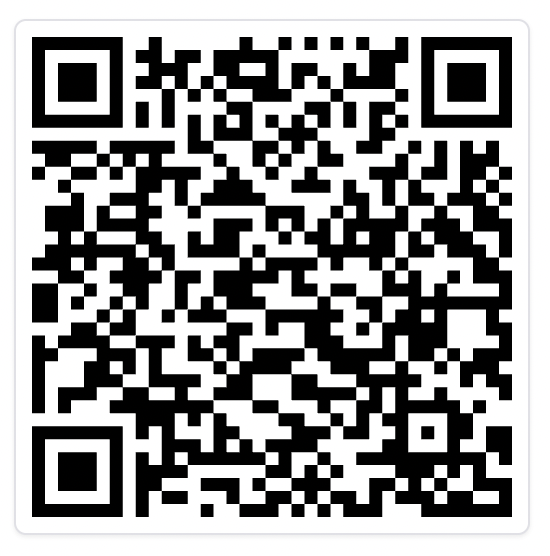
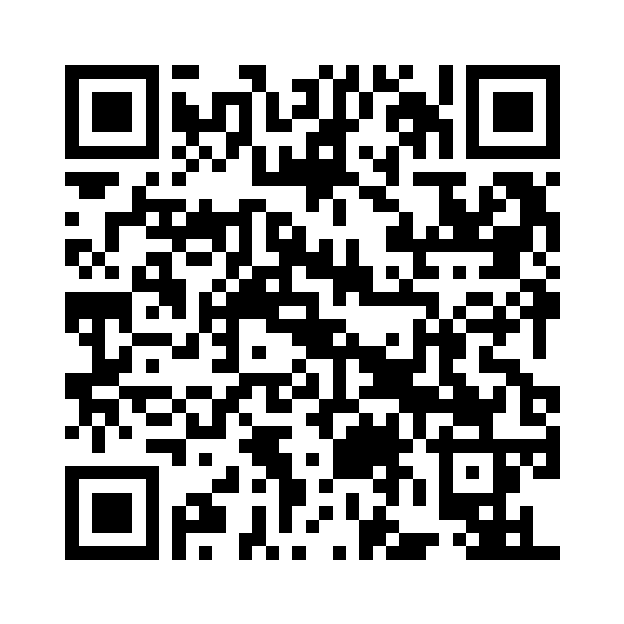
Header links on desktop without the menu button; new app download QR
- Header: the links show whenever they fit (measured), the menu button only
  when they do not; a fixed 62rem threshold hid them on ordinary desktops
- Get the app: QR code and link for the new Android build (b6bff365)

diff --git a/components/shatably/Header.tsx b/components/shatably/Header.tsx
@@ -2,7 +2,7 @@
 
 import { CARPETS_ENABLED, WINDOWS_ENABLED } from "@/lib/features";
 import { setLocale, useLocale, useT } from "@/lib/i18n";
-import { useEffect, useState, type ReactNode } from "react";
+import { useEffect, useLayoutEffect, useRef, useState, type ReactNode } from "react";
 import Link from "next/link";
 import { usePathname, useRouter } from "next/navigation";
 import { Check, ChevronDown, LayoutGrid, LogOut, Menu, PackageCheck, PencilRuler, Plus, Settings, Shapes, Shield, ShoppingBag } from "lucide-react";
@@ -62,6 +62,24 @@ export function Header({ vendor, actions }: { vendor?: VendorProfile | null; act
   // Requests are a signed-in feature: guests do not see the link (the page itself asks them to log in).
   const nav = vendor ? STUDIO_NAV : CATALOG_NAV.filter((item) => user || item.href !== "/tasks");
   const current = activeHref(pathname, nav);
+  // The links show whenever they fit beside the brand and the account controls (measured, so a desktop never gets the
+  // menu button for links that would fit); the menu button only when they do not. With page actions (the plan
+  // editor) the links share the bar with them, so they stay in the menu until 2xl as before.
+  const navRef = useRef<HTMLElement>(null);
+  const linksRef = useRef<HTMLUListElement>(null);
+  const [fits, setFits] = useState(true);
+  useLayoutEffect(() => {
+    const bar = navRef.current;
+    const links = linksRef.current;
+    if (!bar || !links || actions) return;
+    const check = () => setFits(links.scrollWidth <= bar.clientWidth);
+    check();
+    const observer = new ResizeObserver(check);
+    observer.observe(bar);
+    observer.observe(links);
+    return () => observer.disconnect();
+  }, [actions, nav.length]);
+  const showLinks = actions ? "hidden 2xl:flex" : fits ? "flex" : "pointer-events-none invisible absolute flex";
   const [admin, setAdmin] = useState(false);
   useEffect(() => {
     void getUser().then(setUser);
@@ -98,9 +116,10 @@ export function Header({ vendor, actions }: { vendor?: VendorProfile | null; act
 
         {/* The links show only when the space left by the brand and the account controls fits them all (a container
             query on this nav, so a longer studio nav or a wider account area never overlaps); otherwise the menu. */}
-        <nav className="@container flex h-full min-w-9 flex-1 items-center gap-4 xl:gap-6" aria-label={t("Main")}>
-          <MobileNav nav={nav} current={current} signedIn={Boolean(vendor)} admin={admin} wideOnly={Boolean(actions)} onGetApp={() => setGetApp(true)} />
-          <ul className={`hidden h-full shrink-0 items-center gap-1 ${actions ? "2xl:flex" : "@[62rem]:flex"}`}>
+        <nav ref={navRef} className="relative flex h-full min-w-9 flex-1 items-center gap-4 xl:gap-6" aria-label={t("Main")}>
+          {(actions || !fits) && <MobileNav nav={nav} current={current} signedIn={Boolean(vendor)} admin={admin} wideOnly={Boolean(actions)} onGetApp={() => setGetApp(true)} />}
+          {/* Kept laid out when hidden (invisible): its natural width is what is measured. */}
+          <ul ref={linksRef} aria-hidden={!actions && !fits ? true : undefined} className={`h-full shrink-0 items-center gap-1 whitespace-nowrap ${showLinks}`}>
             {nav.map((item) => {
               const active = current === item.href;
               return (
@@ -301,7 +320,7 @@ function MobileNav({ nav, current, signedIn, admin, wideOnly, onGetApp }: { nav:
         <button
           type="button"
           aria-label={t("Menu")}
-          className={`flex size-9 shrink-0 items-center justify-center rounded-lg text-slate-600 transition-colors hover:bg-slate-100 hover:text-brand-navy ${wideOnly ? "2xl:hidden" : "@[62rem]:hidden"}`}
+          className={`flex size-9 shrink-0 items-center justify-center rounded-lg text-slate-600 transition-colors hover:bg-slate-100 hover:text-brand-navy ${wideOnly ? "2xl:hidden" : ""}`}
         >
           <Menu className="size-5" />
         </button>

diff --git a/components/home/AppDownload.tsx b/components/home/AppDownload.tsx
@@ -6,7 +6,7 @@ import { useT } from "@/lib/i18n";
 import { Dialog, DialogContent, DialogDescription, DialogTitle } from "@/components/ui/dialog";
 
 /** The Android build the QR code opens (EAS): the same link, for a click on desktop or a tap on a phone. */
-export const APP_DOWNLOAD_URL = "https://expo.dev/accounts/alaahamed/projects/shatably/builds/e8ecd642-9aca-4f86-a5a4-1e11ee915f7c";
+export const APP_DOWNLOAD_URL = "https://expo.dev/accounts/alaahamed/projects/shatably/builds/b6bff365-ff9a-46ee-b64b-f88b9751810d";
 
 /** "Get the app" from the header: the same QR code and download link in a popup, on any page. */
 export function AppDownloadDialog({ open, onOpenChange }: { open: boolean; onOpenChange: (open: boolean) => void }) {
@@ -18,7 +18,7 @@ export function AppDownloadDialog({ open, onOpenChange }: { open: boolean; onOpe
         <DialogDescription className="text-sm text-slate-600">{t("Scan the code with your phone's camera to install the app.")}</DialogDescription>
         <div className="mx-auto rounded-2xl border border-slate-200 bg-white p-3 shadow-sm">
           {/* unoptimized: the original PNG, so lossy re-encoding never blurs the code's edges. */}
-          <Image src="/mobile-app-qr.png" alt={t("QR code to install the sha2ty mobile app")} width={208} height={210} className="h-auto w-52" unoptimized />
+          <Image src="/mobile-app-qr.png" alt={t("QR code to install the sha2ty mobile app")} width={208} height={208} className="h-auto w-52" unoptimized />
         </div>
         <p className="inline-flex items-center justify-center gap-1.5 text-xs font-medium text-slate-500">
           <Smartphone className="size-3.5" aria-hidden /> {t("Android")}
